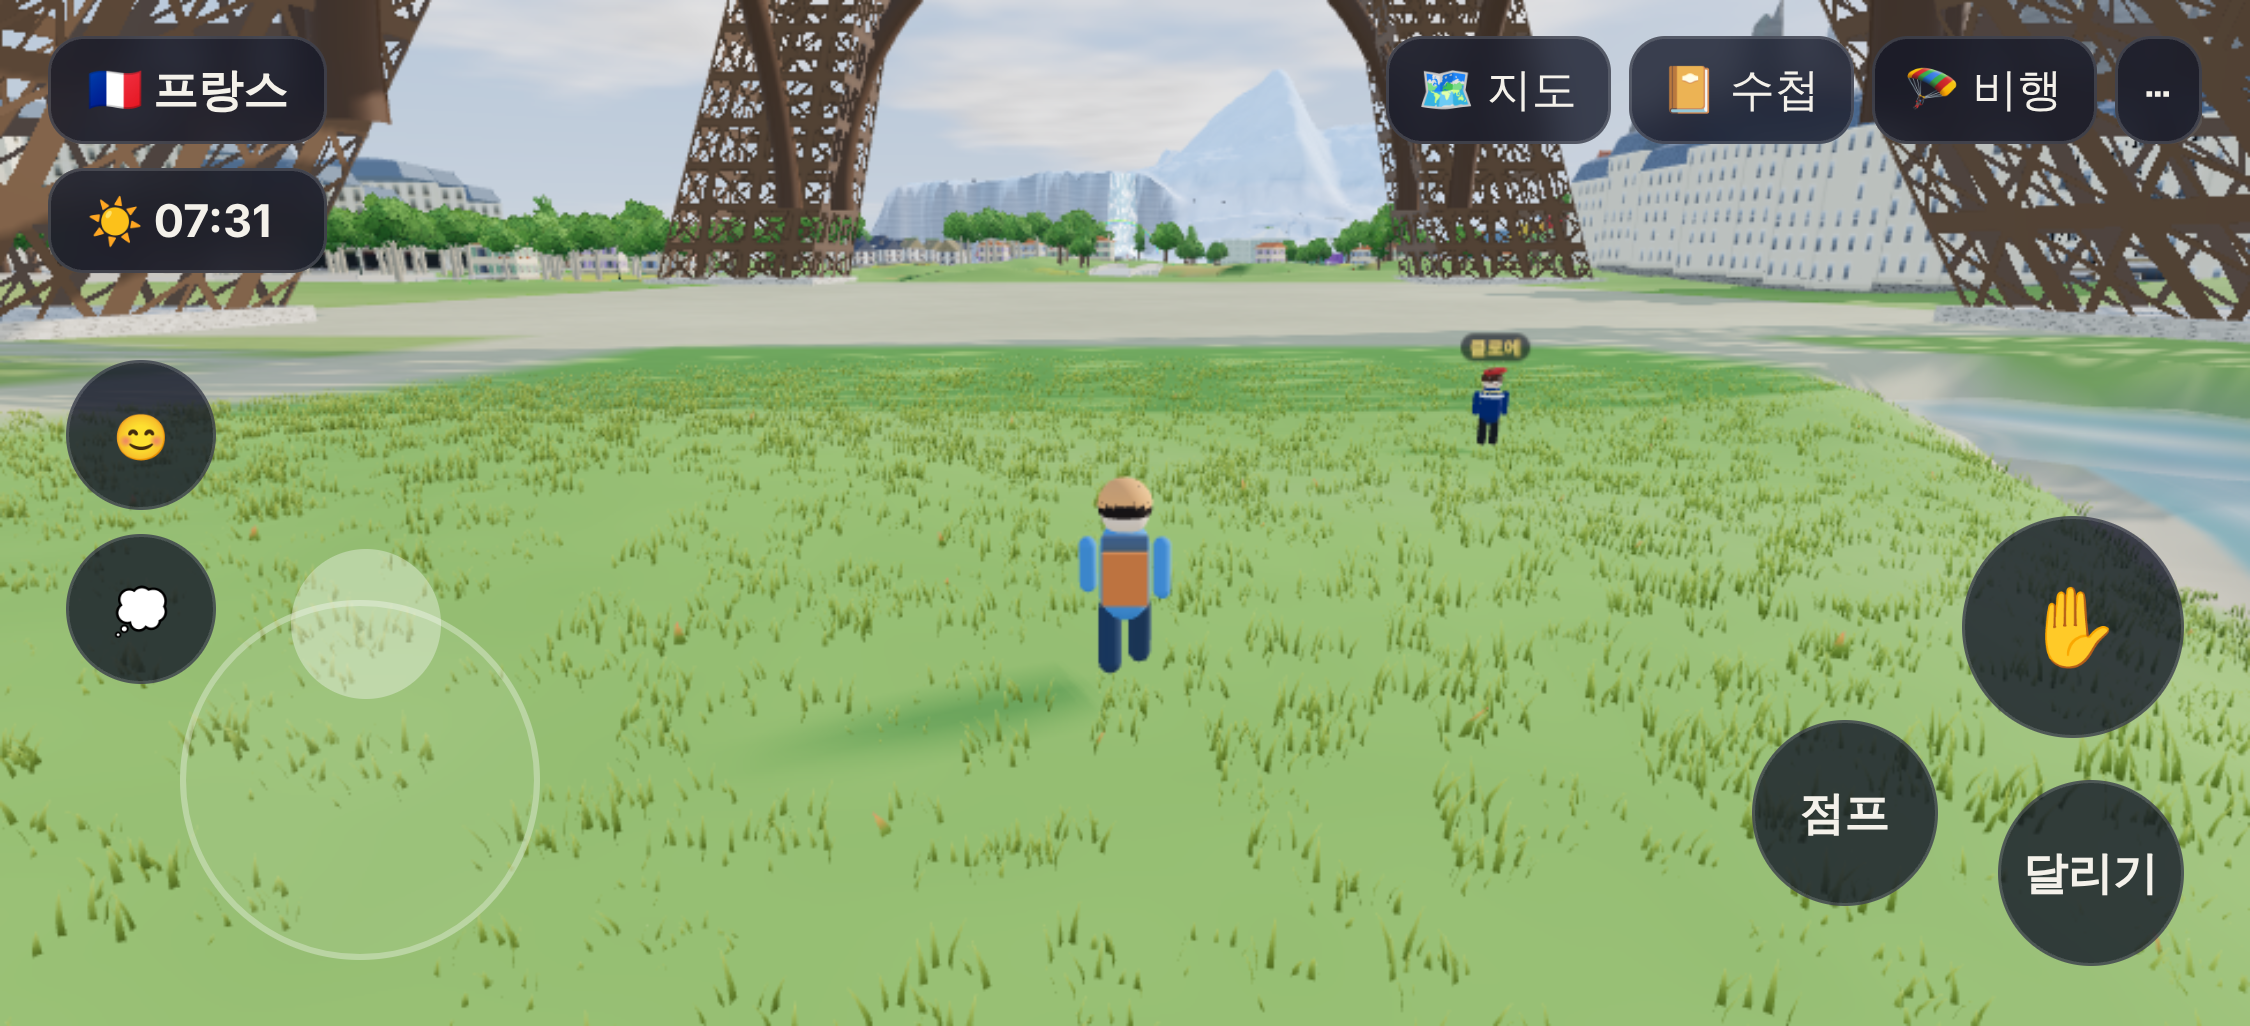
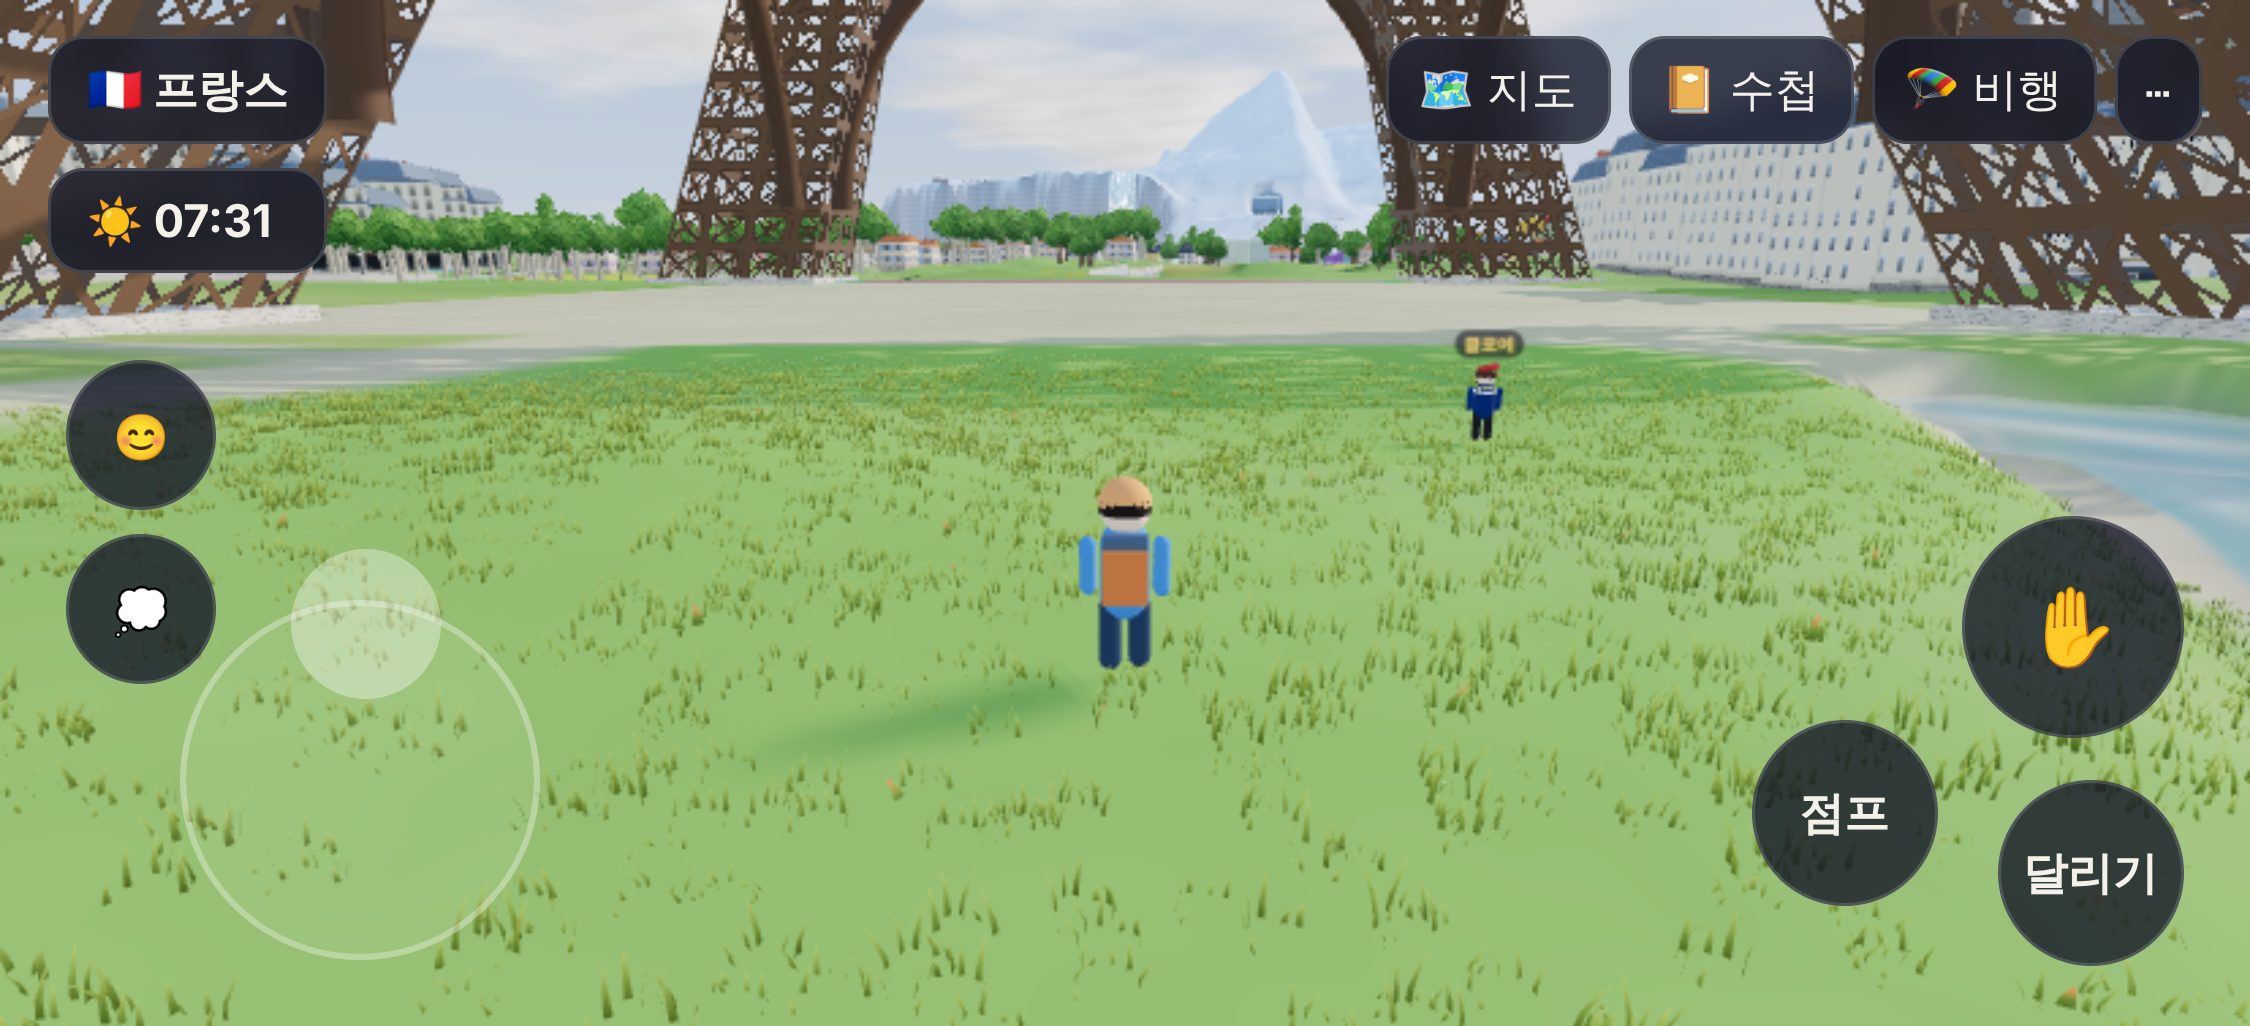
Remove buzzing insect sound; level building lots, eaves, gable walls, chimneys; snow across winter town; natural Alps; finer paving
Claude-Session: https://claude.ai/code/session_01TWwVGDAw9UD4aSFghtycvM

diff --git a/island/city.js b/island/city.js
@@ -32,6 +32,7 @@
       const pc = new THREE.Color(st.tint), yc = new THREE.Color(st.yard);
       ISL.groundTints.push((x, z) => { if (!(x > D.box[0] && x < D.box[2] && z > D.box[1] && z < D.box[3])) return null; const k = Math.round(x / 2) * 100003 + Math.round(z / 2); return D.cells.has(k) ? [pc, .95, 0] : D.yard.has(k) ? [yc, .8, 0] : null; });
       if (id === 'lisbon') { const car = D.r.filter(r => r.car).sort((a, b) => b.p.length - a.p.length)[0]; if (car) ISL.tramPts = car.p; } // 트램은 실제 찻길을 따라
+      if (st.winter) { const B = D.box, prev = ISL.snowZone; ISL.snowZone = (x, z) => Math.max(prev ? prev(x, z) : 0, ISL.sstep(-26, 4, Math.min(x - B[0], B[2] - x, z - B[1], B[3] - z))); }
       districts.push(D);
     }
   }
@@ -80,7 +81,7 @@
     const rd = K.ROADS[st.road], cars = D.r.filter(r => r.car), peds = D.r.filter(r => !r.car && r.kind !== 'steps'), steps = D.r.filter(r => r.kind === 'steps');
     const mk = (geo, tex, off) => { const m = new THREE.Mesh(geo, new THREE.MeshStandardMaterial({ map: tex, roughness: .92, polygonOffset: true, polygonOffsetFactor: off, polygonOffsetUnits: off })); m.receiveShadow = true; m.userData.dynamic = true; scene.add(m); };
     const walkTex = K.repTex(st.road + 'walk', 64, 128, rd.walk || rd.road), roadTex = K.repTex(st.road + 'road', 128, 256, rd.road);
-    if (cars.length) { mk(ribbonGeo(cars.map(r => ({ p: r.p, hw: r.w / 2 + 1.9 })), .1, 4), walkTex, -2); const hero = st.winter ? cars.filter(r => /Skólavörðustígur/.test(r.name || '')) : cars, plain = cars.filter(r => !hero.includes(r)); if (hero.length) mk(ribbonGeo(hero.map(r => ({ p: r.p, hw: r.w / 2 })), .14, 10), roadTex, -4); if (plain.length) mk(ribbonGeo(plain.map(r => ({ p: r.p, hw: r.w / 2 })), .14, 8), K.repTex('snowroad', 64, 64, (x, w, h) => { x.fillStyle = '#c9d0d6'; x.fillRect(0, 0, w, h); for (let i = 0; i < 90; i++) { x.fillStyle = i % 3 ? 'rgba(255,255,255,.5)' : 'rgba(110,120,130,.35)'; x.fillRect((i * 37) % w, (i * 53) % h, 3 + i % 4, 2); } x.fillStyle = 'rgba(90,96,104,.35)'; x.fillRect(w * .28, 0, 5, h); x.fillRect(w * .68, 0, 5, h); }), -4); }
+    if (cars.length) { mk(ribbonGeo(cars.map(r => ({ p: r.p, hw: r.w / 2 + 1.9 })), .1, 4), walkTex, -2); const hero = st.winter ? cars.filter(r => /Skólavörðustígur/.test(r.name || '')) : cars, plain = cars.filter(r => !hero.includes(r)); if (hero.length) mk(ribbonGeo(hero.map(r => ({ p: r.p, hw: r.w / 2 })), .14, D.id === 'lisbon' ? 3 : D.id === 'kyoto' ? 4 : 10), roadTex, -4); if (plain.length) mk(ribbonGeo(plain.map(r => ({ p: r.p, hw: r.w / 2 })), .14, 8), K.repTex('snowroad', 64, 64, (x, w, h) => { x.fillStyle = '#c9d0d6'; x.fillRect(0, 0, w, h); for (let i = 0; i < 90; i++) { x.fillStyle = i % 3 ? 'rgba(255,255,255,.5)' : 'rgba(110,120,130,.35)'; x.fillRect((i * 37) % w, (i * 53) % h, 3 + i % 4, 2); } x.fillStyle = 'rgba(90,96,104,.35)'; x.fillRect(w * .28, 0, 5, h); x.fillRect(w * .68, 0, 5, h); }), -4); }
     if (peds.length) mk(ribbonGeo(peds.map(r => ({ p: r.p, hw: r.w / 2 })), .12, st.winter ? 3 : 4), st.winter ? K.repTex('snowpath', 64, 64, (x, w, h) => { x.fillStyle = '#aeb6be'; x.fillRect(0, 0, w, h); for (let i = 0; i < 120; i++) { x.fillStyle = i % 2 ? 'rgba(235,240,245,.55)' : 'rgba(90,98,108,.3)'; x.fillRect((i * 29) % w, (i * 47) % h, 2 + i % 5, 2 + i % 3); } x.fillStyle = 'rgba(240,244,248,.9)'; x.fillRect(0, 0, 4, h); x.fillRect(w - 4, 0, 4, h); }) : walkTex, -3);
     if (steps.length) mk(ribbonGeo(steps.map(r => ({ p: r.p, hw: r.w / 2 })), .16, .5), K.repTex('stairs', 64, 64, (x, w, h) => { x.fillStyle = '#d9d2c2'; x.fillRect(0, 0, w, h); x.fillStyle = '#8f887a'; x.fillRect(0, 0, w, 7); }), -5);
 
@@ -130,9 +131,16 @@
       const tc = (t0 + t1) / 2, wd = (t1 - t0) / 2, ln = (s1 - s0) / 2, sc = (s0 + s1) / 2, rl = st.gable ? ln : Math.max(0, ln - wd);
       const proj = ([x, z]) => { const s = Math.max(sc - rl, Math.min(sc + rl, x * ax + z * az)); return [s * ax - tc * az, s * az + tc * ax]; };
       const rc = new THREE.Color(st.roof[Math.floor(hsh * 97) % st.roof.length]), rh = Math.min(st.rh * 1.6, Math.max(st.rh * .5, wd * (st.rh / 4)));
-      let ring = p.map(q => [q[0], yT, q[1]]);
-      const stage = (f, dy) => { const nr = ring.map((q, i) => { const r = proj(p[i]); return [q[0] + (r[0] - q[0]) * f, q[1] + dy, q[2] + (r[1] - q[2]) * f]; }); for (let i = 0; i < n; i++) { const a = ring[i], c = ring[(i + 1) % n], c2 = nr[(i + 1) % n], a2 = nr[i], k = rf.pos.length / 3; rf.pos.push(...a, ...c, ...c2, ...a2); for (let q = 0; q < 4; q++) rf.col.push(rc.r, rc.g, rc.b); rf.idx.push(k, k + 1, k + 2, k, k + 2, k + 3); } ring = nr; };
+      const ev = st.mans ? .25 : .5; // 처마: 벽보다 바깥으로 내밀고 살짝 아래로
+      let ring = p.map(q => { const r = proj(q), dx = q[0] - r[0], dz = q[1] - r[1], l = Math.hypot(dx, dz) || 1; return [q[0] + dx / l * ev, yT - .12, q[1] + dz / l * ev]; });
+      { const k0 = rf.pos.length / 3; for (const q of ring) { rf.pos.push(q[0], q[1], q[2]); rf.col.push(rc.r * .8, rc.g * .8, rc.b * .8); } for (let i = 0; i < n; i++) { rf.pos.push(p[i][0], yT - .12, p[i][1]); rf.col.push(rc.r * .7, rc.g * .7, rc.b * .7); } for (let i = 0; i < n; i++) { const j = (i + 1) % n; rf.idx.push(k0 + i, k0 + j, k0 + n + j, k0 + i, k0 + n + j, k0 + n + i); } } // 처마 밑면
+      const stage = (f, dy) => { const nr = ring.map((q, i) => { const r = proj(p[i]); return [q[0] + (r[0] - q[0]) * f, q[1] + dy, q[2] + (r[1] - q[2]) * f]; }); for (let i = 0; i < n; i++) { const a = ring[i], c = ring[(i + 1) % n], c2 = nr[(i + 1) % n], a2 = nr[i], k = rf.pos.length / 3; rf.pos.push(...a, ...c, ...c2, ...a2); const gab = Math.hypot(a2[0] - c2[0], a2[2] - c2[2]) < .05 && st.gable, cc = gab ? fc : rc; for (let q = 0; q < 4; q++) rf.col.push(cc.r, cc.g, cc.b); rf.idx.push(k, k + 1, k + 2, k, k + 2, k + 3); } ring = nr; };
       if (st.mans) { stage(Math.min(.5, st.mans[0] / Math.max(wd, 2)), st.mans[1]); stage(1, st.rh); } else stage(1, rh);
+      if (Math.abs(area) / 2 > 40 && hsh > .25) { // 굴뚝
+        const s = sc + (hsh - .5) * rl, cxx = s * ax - tc * az, czz = s * az + tc * ax, w2 = .32, yb = yT + (st.mans ? st.mans[1] : rh * .5), yt = yT + (st.mans ? st.mans[1] + st.rh : rh) + .9, cc = new THREE.Color(st.winter ? '#b9b4ac' : D.id === 'kyoto' ? '#4a4a4e' : '#a8674c');
+        const k = rf.pos.length / 3; for (const y of [yb, yt]) for (const [ox, oz] of [[-1, -1], [1, -1], [1, 1], [-1, 1]]) { rf.pos.push(cxx + ox * w2, y, czz + oz * w2); rf.col.push(cc.r, cc.g, cc.b); }
+        for (let i = 0; i < 4; i++) { const j = (i + 1) % 4; rf.idx.push(k + i, k + j, k + 4 + j, k + i, k + 4 + j, k + 4 + i); } rf.idx.push(k + 4, k + 5, k + 6, k + 4, k + 6, k + 7);
+      }
       built++;
     }
     const mesh = (B, mat) => { if (!B.pos.length) return; const g = new THREE.BufferGeometry(); g.setAttribute('position', new THREE.Float32BufferAttribute(B.pos, 3)); if (B.uv) g.setAttribute('uv', new THREE.Float32BufferAttribute(B.uv, 2)); g.setAttribute('color', new THREE.Float32BufferAttribute(B.col, 3)); g.setIndex(B.idx); g.computeVertexNormals(); const m = new THREE.Mesh(g, mat); m.castShadow = m.receiveShadow = true; m.userData.dynamic = true; scene.add(m); };

diff --git a/island/terrain.js b/island/terrain.js
@@ -58,8 +58,7 @@
     let h = 2 + 6 * land + fbm(x * .005, z * .005, 4) * 6 + fbm(x * .02 + 9, z * .02, 3) * 2;
     // 스위스 알프스
     if (W[1] > .01) {
-      const rg = ridge(x * .0062 + 3, z * .0062 + 1, 5), pk = Math.max(0, rg - .52);
-      h += W[1] * inland * (rg * 135 - 18 + Math.pow(pk, 1.25) * 300); // 봉우리만 더 높고 날카롭게 (골짜기·마을은 그대로)
+      h += W[1] * inland * (ridge(x * .0048 + 3, z * .0048 + 1, 3) * 150 - 20 + fbm(x * .028, z * .028, 3) * 7); // 굵직한 산줄기 + 잔 바위결 (바늘 같은 봉우리 없이)
       const mx = x - 470, mz = z + 175, ca = Math.cos(.35), sa = Math.sin(.35);
       const u = mx * ca - mz * sa, v = mx * sa + mz * ca;
       const q = Math.max(Math.abs(u), Math.abs(v)) * .8 + (Math.abs(u) + Math.abs(v)) * .2;
@@ -135,7 +134,11 @@
       if (f.t === 'city') { // 실제 도시 구역: 잔 굴곡을 없애 완만한 땅으로 (큰 경사는 유지)
         const dIn = Math.min(x - f.x0, f.x1 - x, z - f.z0, f.z1 - z); if (dIn < -34 || h < 1) continue;
         let s = 0; for (let j = -2; j <= 2; j++) for (let i2 = -2; i2 <= 2; i2++) s += baseH(x + i2 * 18, z + j * 18);
-        h = mix(h, Math.max(2.2, s / 25), sstep(-34, 6, dIn)); continue;
+        h = mix(h, Math.max(2.2, s / 25), sstep(-34, 6, dIn));
+        // 집터 고르기: 건물 자리는 평평하게 다지고 둘레 4m에 걸쳐 원래 땅과 잇는다 (집이 비탈에 떠 있거나 묻히지 않게)
+        const lots = f.grid.get(Math.floor(x / 24) * 100003 + Math.floor(z / 24));
+        if (lots) { let bd = 1e9, bh = 0; for (const L of lots) { if (Math.abs(x - L.cx) > L.rad + 5 || Math.abs(z - L.cz) > L.rad + 5) continue; const d = polyDist(L.p, x, z); if (d < bd) { bd = d; bh = L.h; } } if (bd < 4.5) h = mix(h, bh, 1 - sstep(.8, 4.5, bd)); }
+        continue;
       }
       if (f.t === 'flat') {
         const d = Math.hypot(x - f.x, z - f.z); if (d < f.r2) h = mix(h, f.h, sstep(f.r2, f.r, d));
@@ -164,6 +167,12 @@
     return h;
   }
 
+  // 점에서 다각형까지의 거리 (안쪽이면 0)
+  function polyDist(p, x, z) {
+    let ins = false, best = 1e9;
+    for (let i = 0, j = p.length - 1; i < p.length; j = i++) { const a = p[i], b = p[j]; if ((a[1] > z) !== (b[1] > z) && x < (b[0] - a[0]) * (z - a[1]) / (b[1] - a[1]) + a[0]) ins = !ins; const d = segDist(x, z, a[0], a[1], b[0], b[1]).d; if (d < best) best = d; }
+    return ins ? 0 : best;
+  }
   function segDist(px, pz, ax, az, bx, bz) {
     const dx = bx - ax, dz = bz - az, l2 = dx * dx + dz * dz;
     const t = clamp(((px - ax) * dx + (pz - az) * dz) / l2, 0, 1);
@@ -264,7 +273,10 @@
 
   // ---------- 초기화 ----------
   function init(progress) {
-    for (const id in ISL.OSM || {}) { const d = ISL.OSM[id]; let x0 = 1e9, z0 = 1e9, x1 = -1e9, z1 = -1e9; for (const a of d.b.concat(d.r)) for (let i = 4; i < a.length; i += 2) { x0 = Math.min(x0, a[i]); x1 = Math.max(x1, a[i]); z0 = Math.min(z0, a[i + 1]); z1 = Math.max(z1, a[i + 1]); } features.push({ t: 'city', x0, z0, x1, z1 }); }
+    for (const id in ISL.OSM || {}) { const d = ISL.OSM[id]; let x0 = 1e9, z0 = 1e9, x1 = -1e9, z1 = -1e9; for (const a of d.b.concat(d.r)) for (let i = 4; i < a.length; i += 2) { x0 = Math.min(x0, a[i]); x1 = Math.max(x1, a[i]); z0 = Math.min(z0, a[i + 1]); z1 = Math.max(z1, a[i + 1]); } const grid = new Map(), smooth = (x, z) => { let s = 0; for (let j = -2; j <= 2; j++) for (let i = -2; i <= 2; i++) s += baseH(x + i * 18, z + j * 18); return Math.max(2.2, s / 25); };
+      for (const a of d.b) { const p = []; let cx = 0, cz = 0, rad = 0; for (let i = 4; i < a.length; i += 2) { p.push([a[i], a[i + 1]]); cx += a[i]; cz += a[i + 1]; } cx /= p.length; cz /= p.length; for (const q of p) rad = Math.max(rad, Math.hypot(q[0] - cx, q[1] - cz)); const L = { p, cx, cz, rad, h: smooth(cx, cz) };
+        for (let gx = Math.floor((cx - rad - 5) / 24); gx <= Math.floor((cx + rad + 5) / 24); gx++) for (let gz = Math.floor((cz - rad - 5) / 24); gz <= Math.floor((cz + rad + 5) / 24); gz++) { const k = gx * 100003 + gz; if (!grid.has(k)) grid.set(k, []); grid.get(k).push(L); } }
+      features.push({ t: 'city', x0, z0, x1, z1, grid }); }
     // 해안 기준 명소
     P.belemCoast = coastPoint(-470, 575, 0);
     P.msmCoast = coastPoint(-620, -110, 0);

diff --git a/island/audio.js b/island/audio.js
@@ -32,10 +32,7 @@
       this.layers.fall = chain(pink, 'lowpass', 1600, .3);
       this.layers.wind = chain(brown, 'lowpass', 520, .2);
       this.layers.fire = chain(brown, 'lowpass', 900, .5, this.master);
-      // 밤 귀뚜라미: 고음 + 빠른 맥동
-      const cr = c.createOscillator(); cr.frequency.value = 4600; const crAm = c.createGain(); crAm.gain.value = 0; const lfo = c.createOscillator(); lfo.type = 'square'; lfo.frequency.value = 28; const lg = c.createGain(); lg.gain.value = .5;
-      lfo.connect(lg).connect(crAm.gain); const crG = c.createGain(); crG.gain.value = 0; cr.connect(crAm).connect(crG).connect(this.outdoor); cr.start(); lfo.start();
-      this.layers.cricket = { g: crG, am: crAm };
+      // (밤 벌레 소리는 '지이잉' 하는 기계음처럼 들려서 없앰)
       this.t = 0; this.surfPhase = 0;
     },
     set(name, v, tc = .4) { const L = this.layers[name]; if (L) L.g.gain.setTargetAtTime(this.on ? v : 0, this.ctx.currentTime, tc); },
@@ -80,7 +77,7 @@
       steps.forEach((st, k) => setTimeout(() => { const f = 523.25 * Math.pow(2, st / 12); this.tone(f, 'sine', 1.5, vol, this.master); this.tone(f * 2.01, 'sine', 1, vol / 2, this.master); }, k * 120));
     },
     bird() { const f = 2200 + Math.random() * 1600; this.tone(f, 'sine', .18, .02, this.outdoor, f * (1.2 + Math.random() * .5)); },
-    gull() { const c = this.ctx; for (let k = 0; k < 3; k++) setTimeout(() => { this.tone(1500 - k * 60, 'sawtooth', .35, .008, this.outdoor, 850); this.tone(1520 - k * 60, 'triangle', .35, .012, this.outdoor, 900); }, k * 260); },
+    gull() { const c = this.ctx; for (let k = 0; k < 3; k++) setTimeout(() => { this.tone(1520 - k * 60, 'triangle', .35, .012, this.outdoor, 900); }, k * 260); },
     cowbell(v) { const f = 540 + Math.random() * 80; [1, 1.48, 2.37, 3.1].forEach((m, i) => this.tone(f * m, 'triangle', .6 - i * .1, .02 * v / (i + 1))); },
     crackle() { this.noise(.03 + Math.random() * .04, 'highpass', 2500, .5, .05 + Math.random() * .05, this.master); },
     tick() { this.noise(.02, 'bandpass', 3800, 4, .05, this.master); },
@@ -97,7 +94,7 @@
     door(open, sliding) {
       if (!this.ctx || !this.on) return; const d = this.master;
       if (sliding) { this.noise(.45, 'bandpass', 1500, .6, .06, d); return; }
-      if (open) { this.tone(420, 'sawtooth', .5, .012, d, 310); this.noise(.1, 'bandpass', 600, 1, .06, d, this.buf.brown); }
+      if (open) { this.noise(.1, 'bandpass', 600, 1, .06, d, this.buf.brown); }
       else { this.noise(.18, 'lowpass', 400, .7, .5, d, this.buf.brown); this.noise(.05, 'bandpass', 2400, 2, .05, d); }
     },
     melody(region) { // 오르골

diff --git a/island/nature.js b/island/nature.js
@@ -275,9 +275,10 @@
     }
     const snowLine = W[1] * 108 + W[0] * 62 + (W[2] + W[3] + W[4]) * 400 + nz * 12;
     let snowK = ISL.sstep(snowLine, snowLine + 14, h) * (1 - ISL.sstep(.55, .8, slope) * .7);
-    if (W[0] > .35) { // 아이슬란드의 겨울: 온 땅에 눈 (바닷가·온천·간헐천 주변은 녹아 있음)
+    const snowZ = ISL.snowZone ? ISL.snowZone(x, z) : 0; // 눈 마을 구역은 나라 경계와 상관없이 끝까지 눈
+    if (W[0] > .35 || snowZ > 0) { // 아이슬란드의 겨울: 온 땅에 눈 (바닷가·온천·간헐천 주변은 녹아 있음)
       const P = ISL.P, warm = Math.max(P.lagoon ? 1 - ISL.sstep(30, 48, Math.hypot(x - P.lagoon.x, z - P.lagoon.z)) : 0, P.geysir ? 1 - ISL.sstep(8, 16, Math.hypot(x - P.geysir.x, z - P.geysir.z)) : 0);
-      const cover = ISL.sstep(.35, .7, W[0]) * ISL.sstep(1.2, 3.2, h) * (1 - ISL.sstep(.5, .8, slope) * .6) * (1 - warm) * (.82 + .18 * ISL.sstep(-.4, .3, nz));
+      const cover = Math.max(ISL.sstep(.35, .7, W[0]), snowZ) * ISL.sstep(1.2, 3.2, h) * (1 - ISL.sstep(.5, .8, slope) * .6) * (1 - warm) * (.82 + .18 * ISL.sstep(-.4, .3, nz));
       snowK = Math.max(snowK, cover);
     }
     SURF.snow = snowK;
